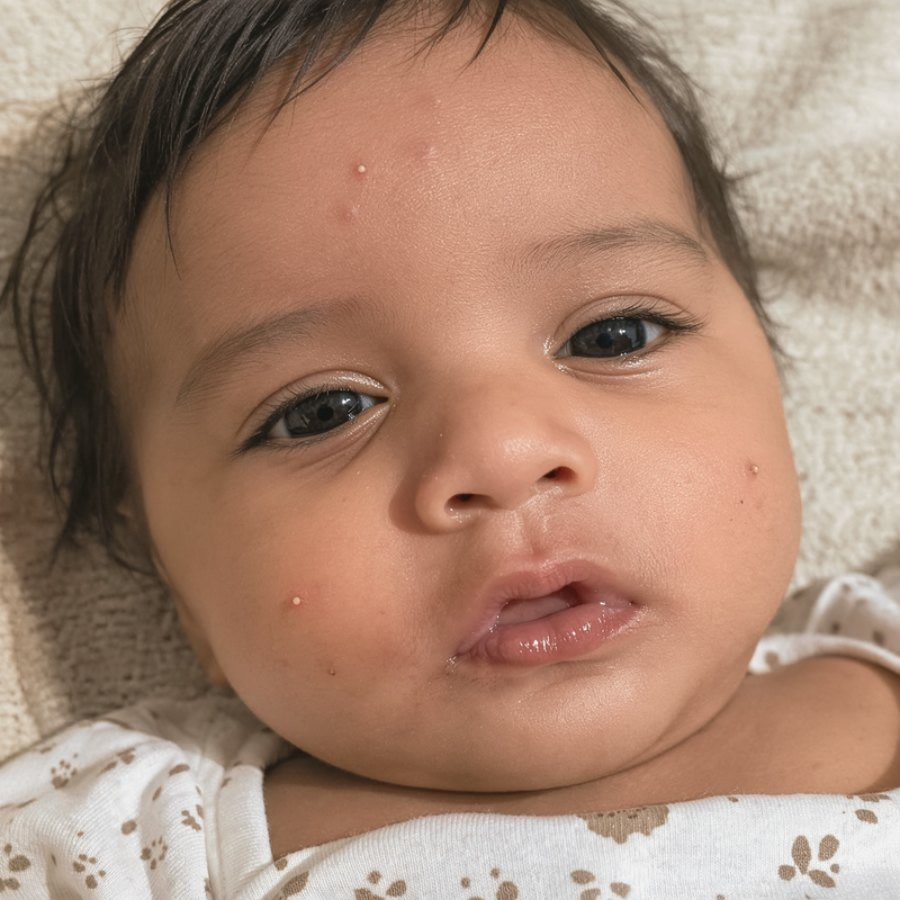
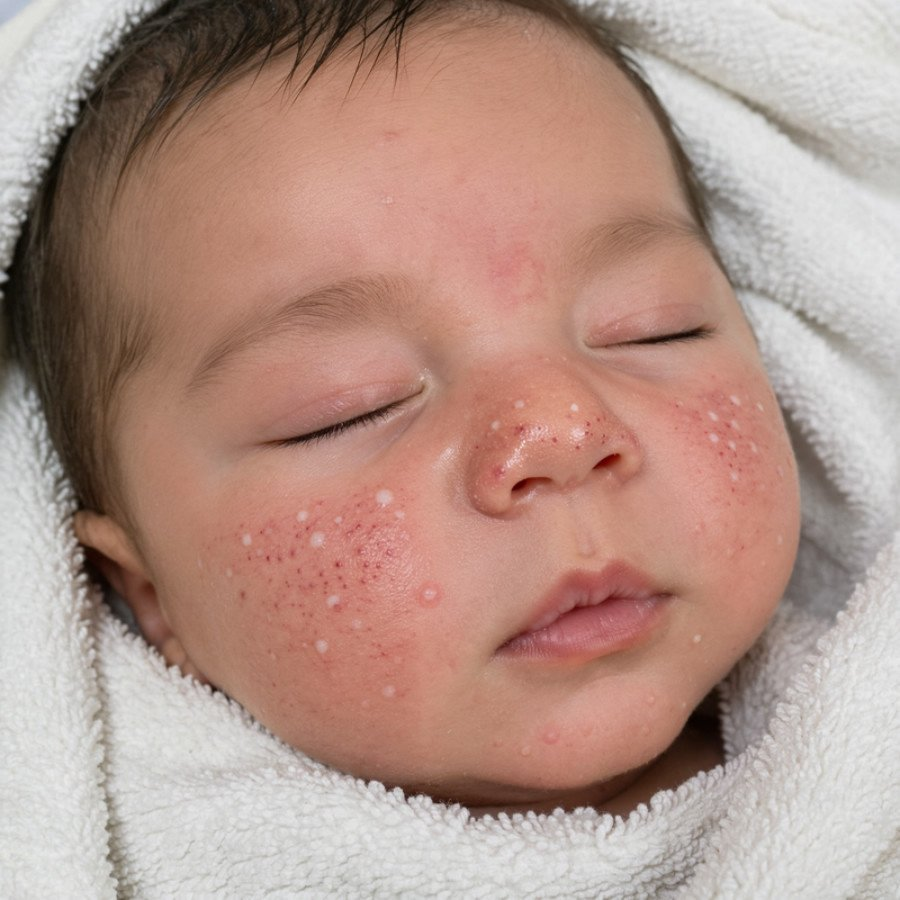
Preview: Everyday care three visual types: swipeable step strips, no supply galleries, no repeated photos, new acne/sponge/nail/brush photos
Claude-Session: https://claude.ai/code/session_01SSLJSJHqsTStWkqtBqtxJf

diff --git a/preview-everyday-care/js/care-photos.js b/preview-everyday-care/js/care-photos.js
@@ -9,7 +9,7 @@
 (function () {
   const F = s => (window.__hub ? window.__hub.F(s) : s);
   const CAT = 'Daily rhythm';
-  const src = n => `assets/care/${n}.jpg?v=1121a`;
+  const src = n => `assets/care/${n}.jpg?v=1121d`;
   const img = (n, alt) => `<img src="${src(n)}" alt="${F(alt).replace(/"/g, '&quot;')}" loading="lazy">`;
   const pin = ([label, x, y, side]) => `<span class="ph-pin ph-pin-${side}" style="left:${x}%;top:${y}%"><i></i><span>${F(label)}</span></span>`;
   const photo = (n, alt, pins, cls = '') => `<figure class="ph-photo ph-hero care-ph ${cls}">${img(n, alt)}${(pins || []).map(pin).join('')}</figure>`;
@@ -27,7 +27,7 @@
   const SEE = { 'rash:peeling': 'peeling', 'rash:newborn': 'milia', 'look:0:cord': 'cord', 'rash:acne': 'acne', 'rash:cradle': 'cradle', 'look:1:poop': 'cleandiaper',
     'rash:drool': 'drool', 'p:teething': 'soregums', 'rash:eczema': 'eczema', 'look:3:poop': 'solids', 'rash:heat': 'heat' };
   // Is this normal? pages: the photo for "What it looks like".
-  const TILE_CROP = { milia: [45, 45, 1.3], cradle: [45, 35, 1.3], heat: [50, 48, 1.2], peeling: [50, 45, 1.1], cord: [50, 48, 1.4], acne: [40, 45, 1.2], eczema: [40, 50, 1.2] };
+  const TILE_CROP = { milia: [45, 45, 1.3], cradle: [45, 35, 1.3], heat: [50, 48, 1.2], peeling: [50, 45, 1.1], cord: [50, 48, 1.4], acne: [36, 60, 1.5], eczema: [40, 50, 1.2] };
   const SEE_LINE = { 'rash:peeling': 'Common in the first weeks.', 'rash:newborn': 'Tiny bumps that fade on their own.', 'look:0:cord': 'A little is normal as it heals.',
     'rash:acne': 'Baby acne, gone by 4–6 months.', 'rash:cradle': 'Cradle cap, usually gone by age 1.', 'look:1:poop': 'Can be fine if feeds go well.',
     'rash:drool': 'Comes with drool. Easy to soothe.', 'p:teething': 'Teething can start around now.', 'rash:eczema': 'Often eczema. Thick cream helps.',
@@ -60,9 +60,20 @@
     nails: ['File, then clippers', [['nailfile', 'Filing a newborn’s nails with a soft emery board', 'First weeks', 'A soft file, maybe twice a week'], ['nails', 'Trimming nails with small baby clippers', 'Once you’re ready', 'Baby clippers, about once a week']],
       'Either is fine at any age. A file can’t nick the skin.']
   };
-  const STEP_ON = { 'p:tub': ['bath', 0], 't:bath:1': ['bath', 0], 't:bath:2': ['bath', 1], 't:bath:3': ['bath', 2], 't:nails:0': ['nails', 0], 't:nails:1': ['nails', 1], 't:nails:2': ['nails', 1], 't:nails:3': ['nails', 1] };
+  // Only where the path's photos aren't already on the page (no photo twice on one page).
+  const STEP_ON = { 't:bath:1': ['bath', 0], 't:bath:2': ['bath', 1] };
+  // Compact cues in place of a path, where the page's own photos already show the gear.
+  const CUE = { 't:bath:3': ['Not sitting steadily yet?', 'Keep using the baby tub. It can sit inside the big one.'],
+    't:nails': ['File or clippers?', 'A soft file in the first weeks, baby clippers once you’re ready. Either is fine at any age. A file can’t nick the skin.'] };
+  const cueFor = r => CUE[r] || CUE[r.replace(/:\d$/, '')];
   const gearPath = (k, on) => { const [title, items, note] = STEPS[k];
     return `<h2 class="hub-h2">${F(title)}</h2><div class="care-psteps" style="--n:${items.length}">${items.map(([n, alt, when, line], i) => `<figure class="${i === on ? 'is-on' : ''}">${img(n, alt)}<figcaption><b>${F(when)}</b><small>${F(line)}</small></figcaption></figure>`).join('')}</div><p class="care-psteps-note">${F(note)}</p>`; };
+  function addCue(main, r) {
+    const c = cueFor(r); if (!c || main.querySelector('.care-cue')) return;
+    const at = main.querySelector('.care-psteq-notes') || main.querySelector('.care-psteq');
+    const html = `<p class="care-cue"><b>${F(c[0])}</b> ${F(c[1])}</p>`;
+    if (at) at.insertAdjacentHTML('afterend', html); else { const hd = main.querySelector('.dev-area-head'); if (hd) hd.insertAdjacentHTML('afterend', html); }
+  }
   function addPath(main, r) {
     const hit = STEP_ON[r]; if (!hit || main.querySelector('.care-psteps')) return;
     // After the how-to and its safety rows, before Good to know and the video.
@@ -75,27 +86,35 @@
 
 
   // What you need, before the steps (the inspiration's order): object photos with a plain label.
-  const NEED = { 'p:sponge': [['towel', 'Towel'], ['washcloth', 'Washcloth'], ['cleandiaper', 'Clean diaper'], ['soap', 'Mild soap']],
-    'p:tub': [['tub', 'Baby tub'], ['towel', 'Towel'], ['washcloth', 'Washcloth'], ['cleandiaper', 'Clean diaper']],
-    't:bath:2': [['tub', 'Baby tub'], ['towel', 'Towel'], ['washcloth', 'Washcloth'], ['cleandiaper', 'Clean diaper']],
-    't:bath:3': [['bigtub', 'Non-slip mat'], ['towel', 'Towel'], ['washcloth', 'Washcloth'], ['cleandiaper', 'Clean diaper']] };
+  // No supply gallery: the photos already show what's used.
+  const NEED = {};
   const needBlock = items => `<h2 class="hub-h2">${F('What you need')}</h2><div class="care-need">${items.map(([n, l]) => `<figure>${img(n, l)}<figcaption>${F(l)}</figcaption></figure>`).join('')}</div>`;
 
   // Steps are a real sequence, so they read as numbered rows (no pictures), the same on every page.
-  const SEQ = { 'p:tub': ['tub', 'bathface', 'tubbath', 'bathhair', 'hero-1'],
+  // A swipeable strip, one photo per step that teaches something. null = no photo of its own: the line joins the card
+  // before it (or leads the strip, if first), so each frame shows something distinct.
+  const SEQ = { 'p:sponge': [null, 'spface', 'spbody', 'spdry'],
+    'p:tub': ['tub', 'bathface', null, 'bathhair', 'hero-1'],
     'h:diapers:0': ['hero-0', 'dwipe', 'dslide', 'cord'], 'h:diapers:1': ['hero-0', 'dwipe', 'dslide', 'diaper'],
-    'p:brush': ['brushrice', 'hero-3', 'teeth2'],
-    'h:diapers:2': ['dsetup', 'diaper', 'dtoy', 'wriggle'], 't:diapers:3': ['dsetup', 'diaper', 'dtoy', 'dstand'] };
-  const SEQ_TITLE = { 'p:tub': 'How to give a tub bath', 'p:brush': 'How to brush', 'h:diapers:0': 'How to change a diaper', 'h:diapers:1': 'How to change a diaper', 'h:diapers:2': 'How to change a wriggler', 't:diapers:3': 'How to change a wriggler' };
+    'p:brush': ['brushrice', 'brushpos', 'teeth2'],
+    'h:diapers:2': ['dsetup', null, 'dtoy', null], 't:diapers:3': ['dsetup', null, 'dtoy', 'dstand'],
+    't:nails:0': ['nsleep', 'npress', 'nailfile'], 't:nails:1': ['nsleep', 'npress', 'nails'], 't:nails:2': ['nsleep', 'npress', 'nails'], 't:nails:3': ['nsleep', 'npress', 'nails'] };
+  const SEQ_TITLE = { 'p:sponge': 'How to give a sponge bath', 't:nails': 'How to trim', 'p:tub': 'How to give a tub bath', 'p:brush': 'How to brush', 'h:diapers:0': 'How to change a diaper', 'h:diapers:1': 'How to change a diaper', 'h:diapers:2': 'How to change a wriggler', 't:diapers:3': 'How to change a wriggler' };
   function photoSteps(main, r) {
     const pics = SEQ[r]; if (!pics) return false;
     const h = [...main.querySelectorAll('h2.hub-h2')].find(x => x.textContent.trim() === 'Steps'); const fig = h && h.nextElementSibling;
     const steps = fig ? [...fig.querySelectorAll('.hub-iconstep')] : []; if (steps.length !== pics.length) return false;
     const notes = fig.querySelector('.tpl-notes');
-    const cards = steps.map((st, i) => { const b = st.querySelector('b').cloneNode(true); b.querySelectorAll('em').forEach(e => e.remove()); const sm = st.querySelector('small');
-      return `<figure class="care-pstep">${img(pics[i], b.textContent)}<figcaption><span class="care-n">${i + 1}</span><div><b>${b.innerHTML}</b>${sm ? `<small>${sm.innerHTML}</small>` : ''}</div></figcaption></figure>`; }).join('');
-    h.textContent = F(SEQ_TITLE[r] || 'Steps');
-    fig.outerHTML = `<div class="care-psteq">${cards}</div>${notes ? `<ul class="tpl-notes care-psteq-notes">${notes.innerHTML}</ul>` : ''}`;
+    let lead = '', cards = [];
+    steps.forEach((st, i) => { const b = st.querySelector('b').cloneNode(true); b.querySelectorAll('em').forEach(e => e.remove()); const sm = st.querySelector('small');
+      // Each line keeps its own step number, even when two steps share one photo.
+      const line = `<div class="care-pl"><span class="care-n">${i + 1}</span><div><b>${b.innerHTML}</b>${sm ? `<small>${sm.innerHTML}</small>` : ''}</div></div>`;
+      if (!pics[i] && !cards.length) { lead += `<div class="care-psteq-lead">${line}</div>`; return; }
+      if (!pics[i]) { cards[cards.length - 1].lines.push(line); return; }
+      cards.push({ n: pics[i], alt: b.textContent, lines: [line] }); });
+    const html = cards.map((c, i) => `<figure class="care-pstep">${img(c.n, c.alt)}<figcaption>${c.lines.join('')}</figcaption></figure>`).join('');
+    h.textContent = F(SEQ_TITLE[r] || SEQ_TITLE[r.replace(/:\d$/, '')] || 'Steps');
+    fig.outerHTML = `${lead}<div class="care-psteq" style="--n:${cards.length}">${html}</div>${notes ? `<ul class="tpl-notes care-psteq-notes">${notes.innerHTML}</ul>` : ''}`;
     return true;
   }
 
@@ -129,7 +148,7 @@
   const lineIcons = main => main.querySelectorAll('.hub-dot svg[viewBox="0 0 100 100"], .hub-iconstep-art svg[viewBox="0 0 100 100"]').forEach(s => { s.outerHTML = TUB; });
 
   // Skin pages, like the inspiration: a big photo with a close-up circle, then what helps, then how to tell normal from time to call.
-  const ZOOM = { cradle: [45, 35, 'br'], acne: [38, 50, 'br'], newborn: [45, 45, 'br'], peeling: [35, 45, 'br'], drool: [55, 60, 'tr'], eczema: [40, 48, 'br'], heat: [50, 48, 'tr'] };
+  const ZOOM = { cradle: [45, 35, 'br'], acne: [36, 60, 'tl'], newborn: [45, 45, 'br'], peeling: [35, 45, 'br'], drool: [55, 60, 'tr'], eczema: [40, 48, 'br'], heat: [50, 48, 'tr'] };
   function sizeUp(main, r) {
     if (!/^(h:diapers|t:diapers)/.test(r) || /size up/i.test(main.textContent) || !window.__hub) return;
     const row = window.__hub.row({ icon: 'diaper', cat: CAT, title: 'Leaks mean it’s time to size up', sub: 'So do red marks at the legs or waist, or tabs that don’t reach the middle.' });
@@ -288,8 +307,10 @@
     if (rm && RASH[rm[1]]) { skinPage(main, rm[1]); return; }
     addPath(main, r);
     if (main.querySelector('.care-psteps')) main.querySelectorAll('.tpl-notes li').forEach(li => { if (/big tub comes once/i.test(li.textContent)) li.remove(); });
-    if (main.querySelector('.care-psteq')) { main.querySelectorAll('.care-ph').forEach(e => { const h = e.previousElementSibling; if (h && h.tagName === 'H2') h.remove(); e.remove(); }); const hd = main.querySelector('.dev-area-head'); if (NEED[r] && hd && !main.querySelector('.care-need')) hd.insertAdjacentHTML('afterend', needBlock(NEED[r])); return; }
+    addCue(main, r);
     const hit = PAGE.find(([re]) => re.test(r)); if (!hit || main.querySelector('.care-ph')) return;
+    // One prominent picture, then the strip: never the same photo twice, and the fit pair already shows the diaper.
+    if ((SEQ[r] || []).includes(hit[1][1]) || (hit[1][1] === 'diaper' && main.querySelector('.care-pair'))) return;
     const [title, n, alt, pins, cls, into] = hit[1];
     // Most pages: the photo is the first section. A photo of what helps sits at the top of that page's own section instead.
     const own = into && [...main.querySelectorAll('h2.hub-h2')].find(h => h.textContent.trim() === into);

diff --git a/preview-everyday-care/index.html b/preview-everyday-care/index.html
@@ -18,7 +18,7 @@
 <link rel="stylesheet" href="css/outings-look.css?v=1113e">
 <link rel="stylesheet" href="css/childcare-look.css?v=1120e"><link rel="stylesheet" href="css/care-card.css">
 <link rel="stylesheet" href="css/care-v2.css?v=1117x">
-<link rel="stylesheet" href="css/care-photos.css?v=1120a">
+<link rel="stylesheet" href="css/care-photos.css?v=1121d">
 <link rel="stylesheet" href="css/year-ahead.css?v=1115c"><link rel="stylesheet" href="css/subpage-color.css"><style>#main .you-avatar.has-photo{overflow:hidden;padding:0}#main .you-avatar.has-photo img{width:100%;height:100%;object-fit:cover;display:block}</style><link rel="stylesheet" href="css/stages-nav.css?v=1121m"><link rel="stylesheet" href="css/home-cards.css"><link rel="stylesheet" href="css/home-glance.css?v=1117g"><link rel="stylesheet" href="css/one-app.css"><link rel="stylesheet" href="css/month-story.css"><link rel="stylesheet" href="css/guides-v2.css?v=1"><link rel="stylesheet" href="css/home-card-clean.css?v=3"><link rel="stylesheet" href="css/dev-photo.css?v=34"></head>
 <body><div id="shell"><header class="top"><button class="brand" onclick="if(profile&&profile.dob)navigate('home')" aria-label="Ahead home">ahead<span class="dot">.</span></button><button id="profileButton" class="profile" hidden onclick="navigate('profile')" aria-label="Baby profile and check-ins">M</button></header><main id="main" class="page"><div class="app-loading" role="status">Getting your guide ready…</div><noscript><style>.app-loading{display:none}</style><p>Ahead needs JavaScript to open your guide. Enable it in your browser, then reload this page.</p></noscript></main><nav id="nav" class="nav" hidden aria-label="Main navigation"><button class="active" onclick="navigate('home')" aria-current="page"><svg viewBox="0 0 24 24" fill="none" stroke="currentColor" stroke-width="1.5" stroke-linecap="round" stroke-linejoin="round" aria-hidden="true"><path d="m3 10 9-7 9 7v10H6V10M9 20v-7h6v7"/></svg>Home</button><button class="" onclick="navigate('categories')" ><svg viewBox="0 0 24 24" fill="none" stroke="currentColor" stroke-width="1.5" stroke-linecap="round" stroke-linejoin="round" aria-hidden="true"><circle cx="12" cy="12" r="9"/><path d="m16 8-3 5-5 3 3-5Z"/></svg>Guides</button><button class="" onclick="navigate('timeline')" ><svg viewBox="0 0 24 24" fill="none" stroke="currentColor" stroke-width="1.5" stroke-linecap="round" stroke-linejoin="round" aria-hidden="true"><circle cx="12" cy="12" r="9"/><path d="M12 6v6l4 3"/></svg>Memories</button></nav></div>
 <script src="js/storage.js"></script>
@@ -57,7 +57,7 @@
 <script src="js/safety-v2.js?v=1118s"></script>
 <script src="js/care-art.js?v=1113g"></script>
 <script src="js/care-v2.js?v=1119zi"></script>
-<script src="js/care-photos.js?v=1120a"></script>
+<script src="js/care-photos.js?v=1121d"></script>
 <script src="js/cat-icons.js"></script>
 <script src="js/year-ahead-art.js"></script><script src="js/year-ahead.js?v=1117q"></script><script src="js/profile-v2.js?v=1113e"></script><script src="js/stages-nav.js?v=1121m"></script><script src="js/feed-mock2.js?v=1121a"></script><script src="js/feed-templates.js?v=1121a"></script><script src="js/home-copy.js?v=1119zj"></script><script src="js/home-cards.js?v=1119zj"></script><script src="js/home-glance.js?v=1118c"></script>
 <script src="js/feed-photos.js?v=1119zj"></script><script src="js/search-index.js?v=1121m"></script><script src="js/cohesion.js?v=1114v"></script><script src="js/they-grammar.js"></script><script src="js/month-story.js"></script><script src="js/boot.js"></script>

diff --git a/preview-everyday-care/css/care-photos.css b/preview-everyday-care/css/care-photos.css
@@ -192,3 +192,24 @@
 #main .care-pair b { display: flex; align-items: center; gap: 6px; font-size: 14.5px; font-weight: 700; color: #2a6078 }
 #main .care-pair .is-no b { color: #9b3326 }
 #main .care-pair small { display: block; font-size: 13px; line-height: 1.35; color: #6b6670; margin-top: 3px }
+
+/* Steps: a compact swipeable strip (one prominent photo above, 2–4 frames here), not stacked cards. */
+#main .care-psteq { display: flex !important; gap: 10px; overflow-x: auto; scroll-snap-type: x mandatory; margin: 0 -16px 12px; padding: 0 16px 4px; scroll-padding: 0 16px; scrollbar-width: none; grid-template-columns: none !important }
+#main .care-psteq::-webkit-scrollbar { display: none }
+#main .care-psteq > .care-pstep, #main .care-psteq > .care-pstep:last-child:nth-child(odd) { flex: 0 0 68%; scroll-snap-align: start; display: flex !important; flex-direction: column; grid-column: auto; grid-template-columns: none }
+#main .care-psteq[style*="--n:2"] > .care-pstep { flex-basis: calc(50% - 5px) }
+#main .care-psteq > .care-pstep img, #main .care-psteq > .care-pstep:last-child:nth-child(odd) img { width: 100%; height: auto; min-height: 0; aspect-ratio: 1 / 1; object-fit: cover }
+#main .care-pstep figcaption > div > small + b { margin-top: 8px }
+#main .care-psteq-lead { margin: 0 2px 10px; display: flex; gap: 6px; align-items: baseline; flex-wrap: wrap }
+#main .care-psteq-lead b { font-size: 15px; font-weight: 650; color: #2f3a40 }
+#main .care-psteq-lead small { font-size: 14px; color: #6b6670 }
+#main .care-psteq-lead b::before { content: "First: "; font-weight: 500; color: #6b6670 }
+#main .care-cue { margin: 0 0 18px; padding: 12px 14px; border-radius: 14px; background: #eef6f9; font-size: 14px; line-height: 1.42; color: #3d4a50 }
+#main .care-cue b { color: #2a6078; font-weight: 700; margin-right: 2px }
+#main .care-psteq > .care-pstep img, #main .care-psteq > .care-pstep:last-child:nth-child(odd) img { aspect-ratio: 4 / 3 }
+#main .care-psteq > .care-pstep figcaption { display: grid !important; gap: 8px; padding: 10px 10px 12px }
+#main .care-pl { display: flex; gap: 8px; align-items: flex-start }
+#main .care-psteq-lead { display: block; margin: 0 0 10px; padding: 10px 12px; background: #fffefb; border: 1px solid var(--line, #e1e5d9); border-radius: 14px }
+#main .care-psteq-lead b::before { content: none }
+#main .care-psteq-lead b { display: block; font-size: 14.5px } #main .care-psteq-lead small { display: block; font-size: 13px }
+#main .care-psteq-lead .care-n { flex: none; width: 24px; height: 24px; border-radius: 50%; background: #e3f1f7; color: #2a6078; font-weight: 750; font-size: 13px; display: grid; place-items: center }
